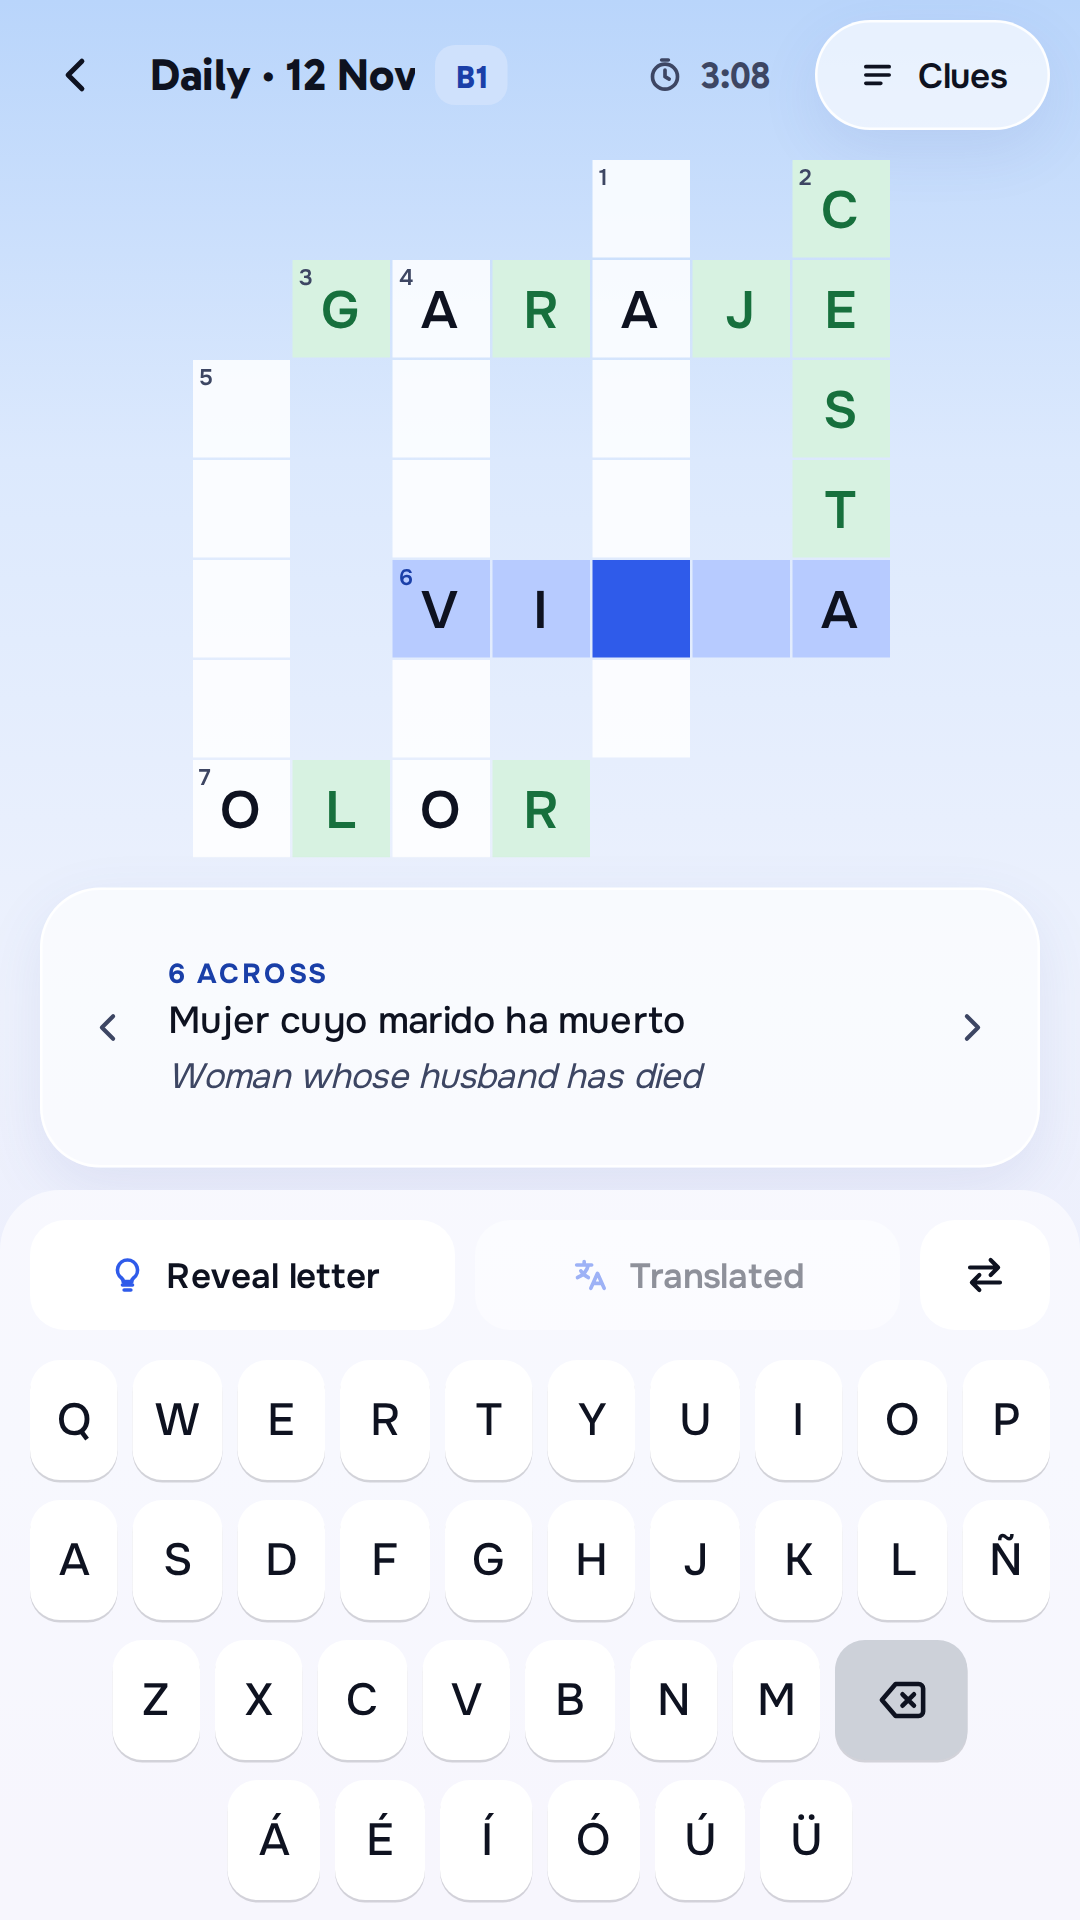
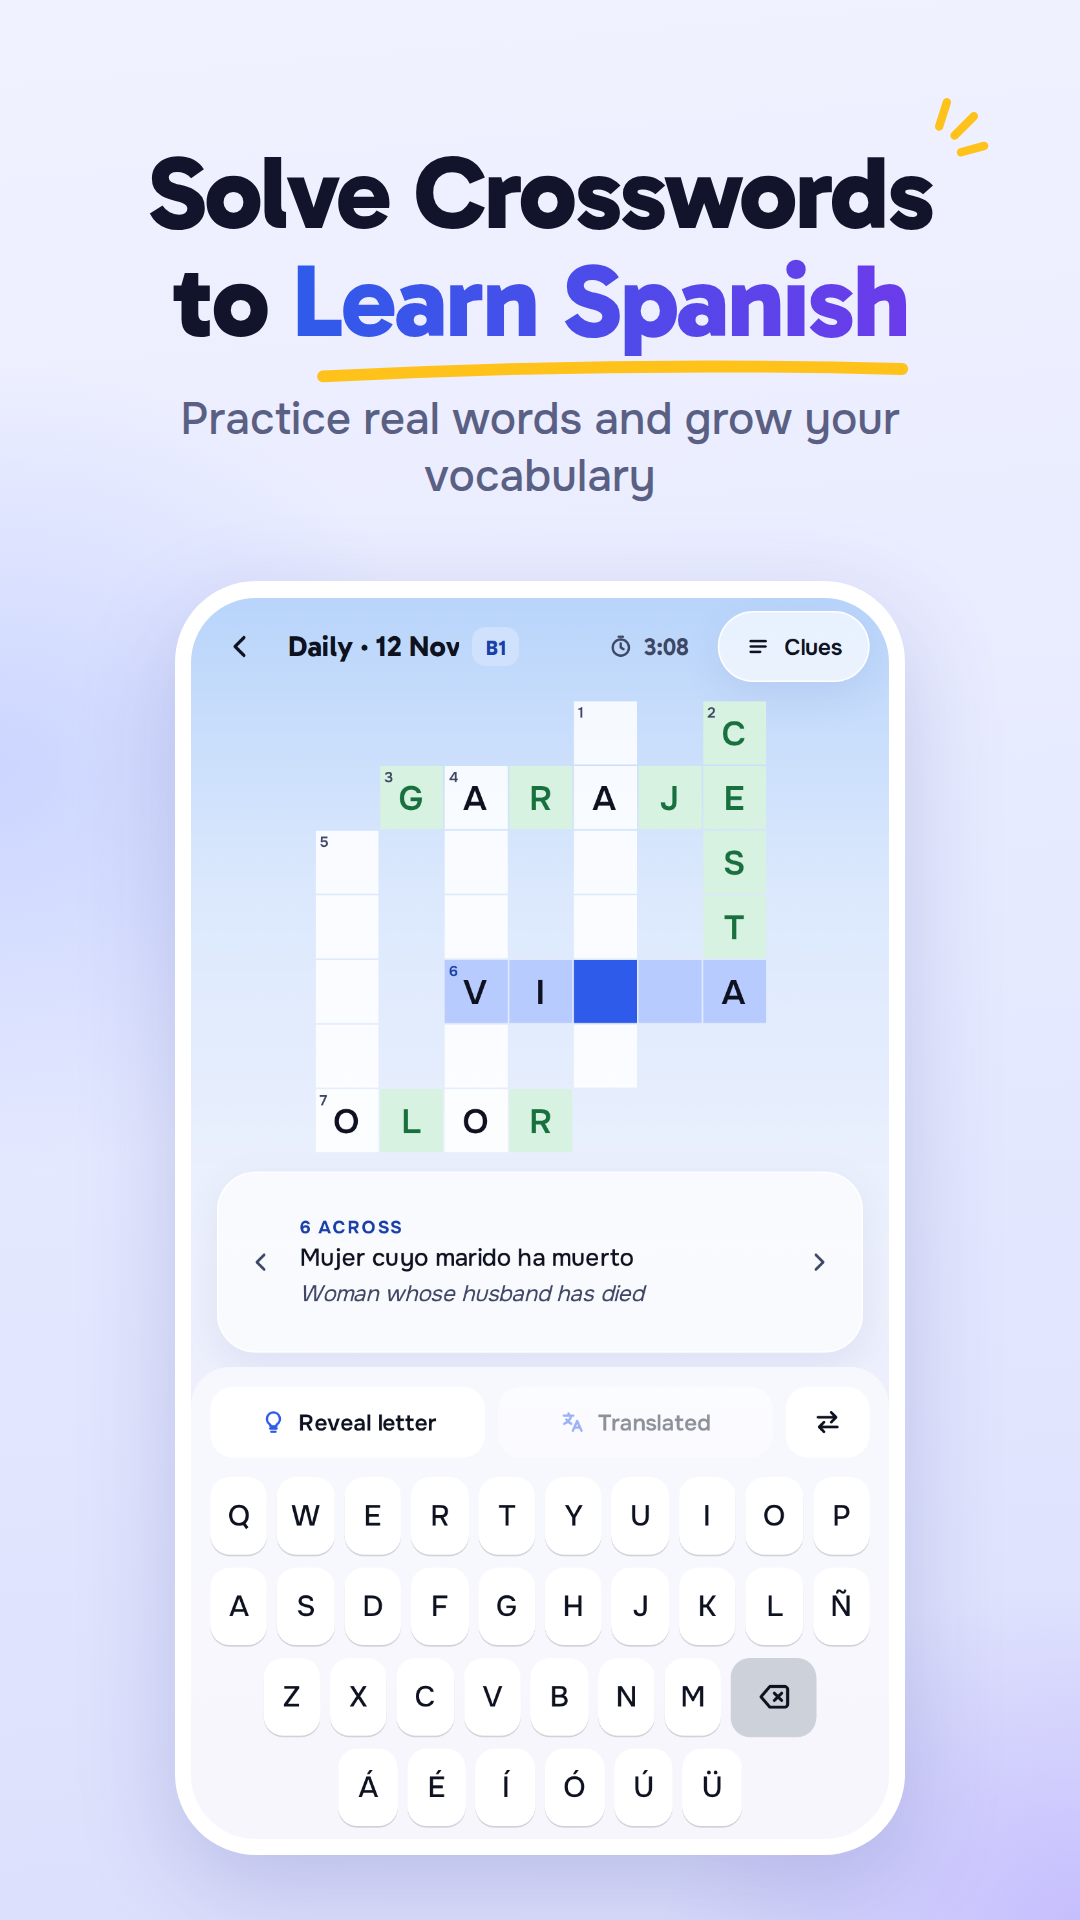
Framed marketing screenshots with headlines (#32)
* Framed marketing screenshots with headlines (#31)

Headline, subtitle and phone frame around the real captures, rendered
from frame.html at exact store sizes. Raw captures move to raw/.

* Fail on half-loaded frames, encode template path, equal phone size (#31)

---------

diff --git a/store/screenshots/frame.html b/store/screenshots/frame.html
@@ -1,0 +1,88 @@
+<!doctype html>
+<html>
+<head>
+<meta charset="utf-8">
+<style>
+  @font-face { font-family: Gabarito; font-weight: 800; src: url(../../node_modules/@expo-google-fonts/gabarito/800ExtraBold/Gabarito_800ExtraBold.ttf); }
+  @font-face { font-family: Onest; font-weight: 500; src: url(../../node_modules/@expo-google-fonts/onest/500Medium/Onest_500Medium.ttf); }
+  * { box-sizing: border-box; }
+  html, body { margin: 0; overflow: hidden; background: #E6EAFF; }
+  body {
+    width: var(--w); height: var(--h);
+    background:
+      radial-gradient(60% 30% at 0% 40%, rgba(167, 186, 255, 0.45), transparent 70%),
+      radial-gradient(55% 25% at 100% 100%, rgba(170, 150, 255, 0.45), transparent 70%),
+      linear-gradient(175deg, #F1F2FF 0%, #E6EAFF 50%, #DCDFFC 100%);
+    display: flex; flex-direction: column; align-items: center;
+    padding-top: calc(var(--u) * 13);
+    font-family: Gabarito, sans-serif;
+  }
+  h1 {
+    position: relative; margin: 0; text-align: center;
+    font-size: calc(var(--u) * 9.6); line-height: 1.04; letter-spacing: -0.02em;
+    color: #12142B;
+  }
+  .hl { position: relative; white-space: nowrap; }
+  .hl b {
+    font-weight: 800;
+    background: linear-gradient(90deg, #2F5BEA, #6B3BEA);
+    -webkit-background-clip: text; background-clip: text; color: transparent;
+  }
+  .swoosh { position: absolute; left: 3%; width: 98%; bottom: -0.2em; height: 0.24em; overflow: visible; }
+  .sparks { position: absolute; right: -0.55em; top: -0.42em; width: 0.62em; height: 0.62em; overflow: visible; }
+  p {
+    margin: calc(var(--u) * 3.2) 0 0; text-align: center; max-width: 82%;
+    /* Two lines reserved so the phone is the same size on every shot. */
+    min-height: 2.6em;
+    font: 500 calc(var(--u) * 4.1)/1.3 Onest, sans-serif; color: #5A6083;
+  }
+  .phone {
+    margin-top: calc(var(--u) * 7);
+    padding: calc(var(--u) * 1.5);
+    background: #fff; border-radius: calc(var(--u) * 7.5);
+    box-shadow: 0 calc(var(--u) * 3) calc(var(--u) * 9) rgba(60, 70, 160, 0.22);
+  }
+  .phone img { display: block; width: auto; border-radius: calc(var(--u) * 6); }
+</style>
+</head>
+<body>
+  <h1 id="title"></h1>
+  <p id="sub"></p>
+  <div class="phone"><img id="shot" alt=""></div>
+<script>
+  const COPY = {
+    1: ['Learn Spanish', 'with', 'Crosswords', 'Fun and effective practice for every level'],
+    2: ['Solve Crosswords', 'to', 'Learn Spanish', 'Practice real words and grow your vocabulary'],
+    3: ['Use Clues', 'and', 'Learn Naturally', 'Clear hints in Spanish with English translations'],
+    4: ['Build Your', '', 'Vocabulary', 'Practice Spanish words and see your progress'],
+    5: ['Choose a Level', 'and a', 'Theme', 'Crosswords for your pace and interests'],
+  };
+  const SIZES = { ios: [1320, 2868], android: [1080, 1920] };
+
+  const q = new URLSearchParams(location.search);
+  const store = q.get('store');
+  const n = q.get('n');
+  const [w, h] = SIZES[store];
+  const [line1, lead, highlight, sub] = COPY[n];
+  const u = w / 100;
+  const root = document.documentElement.style;
+  root.setProperty('--w', w + 'px');
+  root.setProperty('--h', h + 'px');
+  root.setProperty('--u', u + 'px');
+
+  const swoosh = '<svg class="swoosh" viewBox="0 0 100 10" preserveAspectRatio="none"><path d="M2 7 Q 50 1 98 4" stroke="#FFC21A" stroke-width="3.2" fill="none" stroke-linecap="round" vector-effect="non-scaling-stroke" style="stroke-width:calc(var(--u)*1.1)"/></svg>';
+  const sparks = '<svg class="sparks" viewBox="0 0 10 10"><g stroke="#FFC21A" stroke-width="1.3" stroke-linecap="round"><path d="M2.2 4.6 L3.4 0.8"/><path d="M4.6 6 L7.6 3"/><path d="M5.6 8.6 L9.2 7.6"/></g></svg>';
+  document.getElementById('title').innerHTML =
+    `${line1}${sparks}<br>${lead ? lead + ' ' : ''}<span class="hl"><b>${highlight}</b>${swoosh}</span>`;
+  document.getElementById('sub').textContent = sub;
+  const shot = document.getElementById('shot');
+  // The screen fills whatever height the headline leaves, minus the frame and a bottom margin.
+  document.fonts.ready.then(() => {
+    const phone = document.querySelector('.phone');
+    const pad = parseFloat(getComputedStyle(phone).paddingTop);
+    shot.style.height = Math.floor(h - phone.offsetTop - 2 * pad - u * 6) + 'px';
+    shot.src = `raw/${store}-${n}.png`;
+  });
+</script>
+</body>
+</html>

diff --git a/store/screenshots/README.md b/store/screenshots/README.md
@@ -12,14 +12,22 @@ Suggested shots: one per unique screen, no repeats (a dark-mode copy of a screen
 
 Google Play also needs `store/play-icon-512.png` (512 x 512) and `store/play-feature-graphic.png` (1024 x 500), already generated from `assets/icon.svg`.
 
-## Captured set
+## Framed set
+
+The upload files (`ios-N.png`, `android-N.png`) are marketing frames: headline, subtitle and a phone frame around the raw capture in `raw/`. Headlines live in `COPY` in `frame.html`. To rebuild after changing copy or replacing a raw capture:
+
+```bash
+npm run screenshots:frame   # needs Google Chrome (override with CHROME=/path/to/chrome)
+```
+
+## Raw captures (`raw/`)
 
 One shot per unique screen, no repeats. Web dev build in headless Chrome with seeded progress, light mode, iPhone 440x956 @3x and Android 432x768 @2.5x, local date 2026-11-12.
 
-| Screen | iPhone 6.9" (1320x2868) | Android (1080x1920) |
+| # | Headline | Screen |
 |---|---|---|
-| Today: 4-day streak, A2 solved, B1/B2 in progress, Continue practice | `ios-1.png` | `android-1.png` |
-| Crossword: B1 daily mid-solve, clue translated | `ios-2.png` | `android-2.png` |
-| Clues list sheet over the B1 daily | `ios-3.png` | `android-3.png` |
-| Completion card over the solved A2 daily | `ios-4.png` | `android-4.png` |
-| Practice picker, B1 and Food selected | `ios-5.png` | `android-5.png` |
+| 1 | Learn Spanish with Crosswords | Today: 4-day streak, A2 solved, B1/B2 in progress, Continue practice |
+| 2 | Solve Crosswords to Learn Spanish | B1 daily mid-solve, clue translated |
+| 3 | Use Clues and Learn Naturally | Clues list sheet over the B1 daily |
+| 4 | Build Your Vocabulary | Completion card over the solved A2 daily |
+| 5 | Choose a Level and a Theme | Practice picker, B1 and Food selected |
